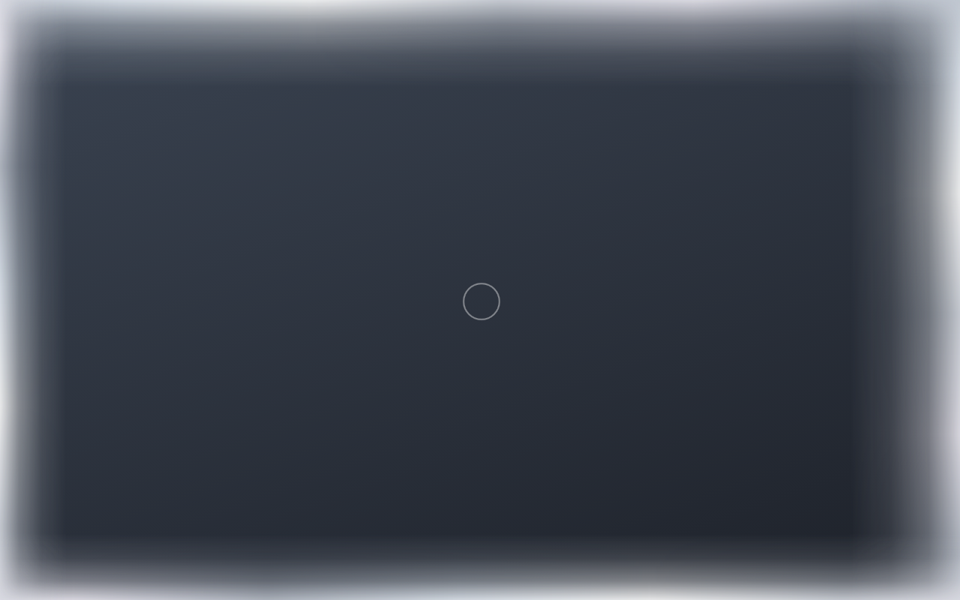
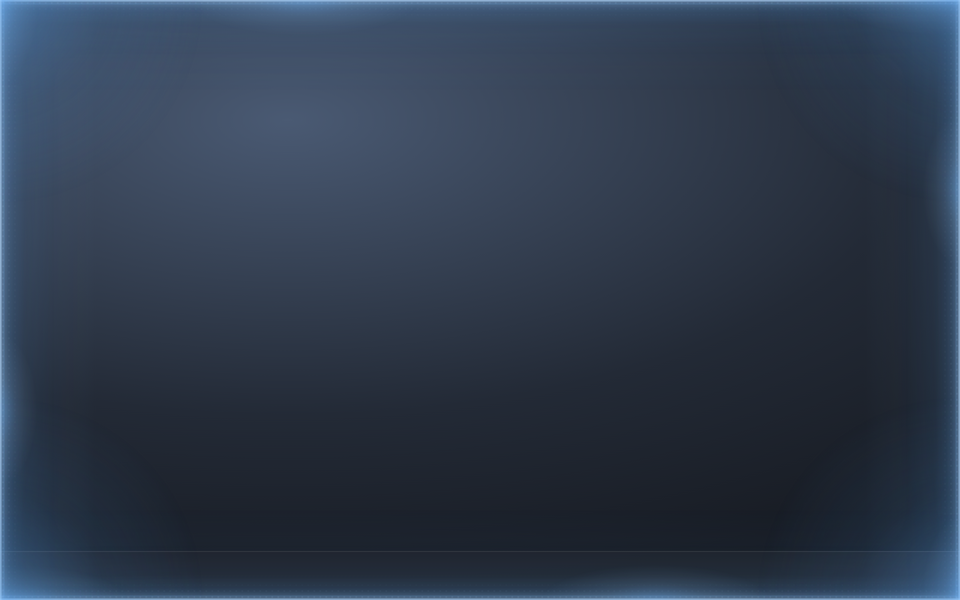
Website auf Version 0.7: Visualizer und Bildschirmrand
Claude-Session: https://claude.ai/code/session_019aeRaodHXNXqEmeAxLVjik

diff --git a/index.html b/index.html
@@ -146,10 +146,10 @@
     </section>
 
     <!-- Bilder -->
-    <!-- Neu in 0.4: Vorschauen aus HTML und CSS, gleiche Kurven wie in der App -->
+    <!-- Neu: Vorschauen aus HTML und CSS, gleiche Kurven wie in der App -->
     <section class="section" id="neu">
-      <h2>Neu in Version 0.4.</h2>
-      <p class="section-lead">Mehr Auswahl bei der KI, ein echter Musik-Visualizer und ein Island, das sich ganz an den Bildschirmrand schmiegt.</p>
+      <h2>Neu in Version 0.7.</h2>
+      <p class="section-lead">Ein Visualizer, der wirklich zuhört, ein Bildschirmrand, der zur Musik leuchtet, und ein Eingabefeld, das immer sichtbar bleibt.</p>
       <div class="mocks">
         <figure class="mock">
           <div class="mock-screen" aria-hidden="true">
@@ -166,7 +166,7 @@
               <span class="m-bars" id="mockBars"><i></i><i></i><i></i><i></i><i></i><i></i><i></i></span>
             </div>
           </div>
-          <figcaption><b>Musik mit Visualizer.</b> Cover und Titel im Island, die Balken folgen dem Pegel der Windows-Tonausgabe. Es wird nichts aufgenommen.</figcaption>
+          <figcaption><b>Musik mit Visualizer.</b> Cover und Titel im Island. Die Balken folgen Bass, Mitten und Höhen des echten Tons. Ist Spotify nur offen oder pausiert, bleibt alles ruhig. Es wird nichts aufgenommen.</figcaption>
         </figure>
         <figure class="mock">
           <div class="mock-screen mock-settings" aria-hidden="true">
@@ -197,7 +197,7 @@
         <figure><img src="img/confirm.png" alt="Buddy fragt, ob er den PC steuern darf"><figcaption>Fragt vor dem Steuern</figcaption></figure>
         <figure><img src="img/settings.png" alt="Einstellungen mit den Bereichen Provider, Tools, Audio &amp; Visuals und System"><figcaption>Einstellungen mit Anbieter-Wahl</figcaption></figure>
       </div>
-      <figure class="wide"><img src="img/glow.png" alt="Leuchtender weiss-grauer Rand um den Bildschirm"><figcaption>Wenn Buddy hinschaut oder steuert, leuchtet der Bildschirmrand.</figcaption></figure>
+      <figure class="wide"><img src="img/glow.png" alt="Bildschirmrand leuchtet in der Akzentfarbe, auch über der Taskleiste"><figcaption>Der Rand leuchtet in deiner Akzentfarbe um den ganzen Bildschirm, im Takt der Musik oder wenn Buddy länger als 3 Sekunden den PC bedient.</figcaption></figure>
     </section>
 
     <!-- Installation -->
@@ -280,7 +280,7 @@
   </main>
 
   <footer class="footer">
-    <p>Buddy Island ist ein Testprojekt von Wolf Widmer · Version 0.4.0</p>
+    <p>Buddy Island ist ein Testprojekt von Wolf Widmer · Version 0.7.0</p>
     <p>Nutzt die offiziellen APIs von Anthropic, OpenAI, xAI und Google oder lokale Modelle über Hugging Face Transformers. Kein offizielles Produkt dieser Firmen, von Apple oder Microsoft.</p>
     <p><a href="privacy.html">Datenschutz</a> · <a href="https://github.com/wolfawidmer-sudo/buddy-island">Quellcode auf GitHub</a></p>
   </footer>
